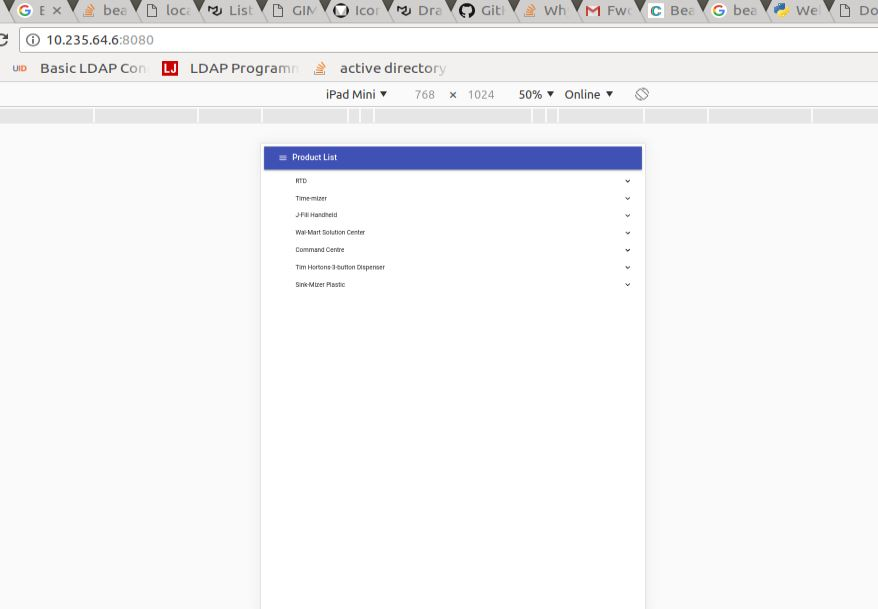
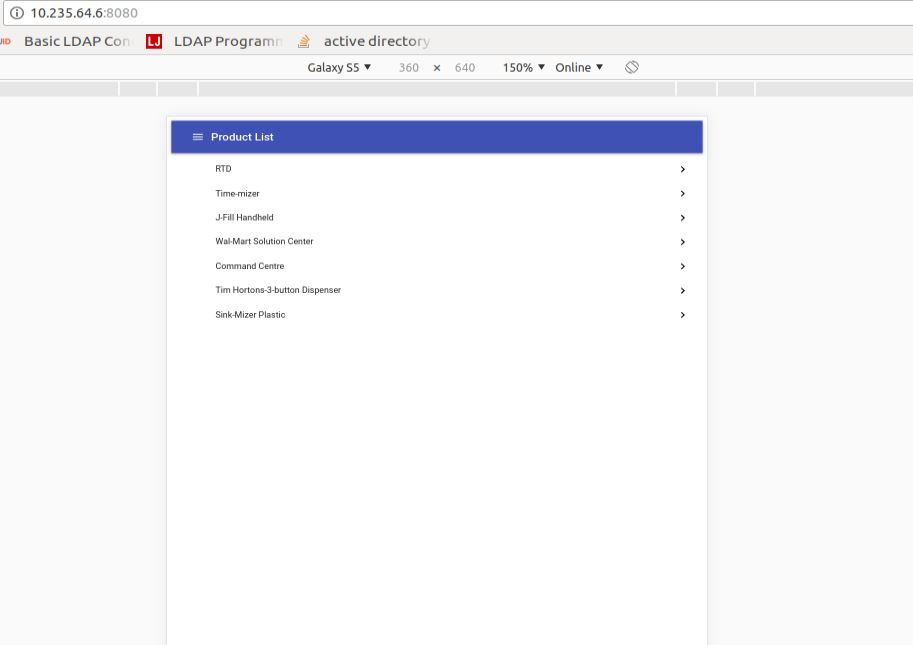
updated code

Changed region(s): [[0.0, 0.0, 1.0, 0.2808], [0.246, 0.2808, 0.4305, 0.4992]]

diff --git a/react_assignment/React_Assignment/client/components/processdashboard/ProcessDashboard.js b/react_assignment/React_Assignment/client/components/processdashboard/ProcessDashboard.js
@@ -8,46 +8,47 @@ import Collapse from '@material-ui/core/Collapse';
 import ExpandLess from '@material-ui/icons/ExpandLess';
 import ExpandMore from '@material-ui/icons/ExpandMore';
 import ChevronRightIcon from '@material-ui/icons/ChevronRight';
+import ChevronLeftIcon from '@material-ui/icons/ChevronLeft';
 import StarBorder from '@material-ui/icons/StarBorder';
 
-
 class ProcessDashboard extends React.Component{
-	constructor(props){
-		super(props);
-		this.state = {open:true};
-		this.state ={data:["RTD","Time-mizer","J-Fill Handheld","Wal-Mart Solution Center","Command Centre","Tim Hortons-3-button Dispenser","Sink-Mizer Plastic"]}
-	}	
-	
-	handleClick = ()=>{
-		this.setState(state => ({open:!state.open}));
-	}
-	render(){
-		console.log(this,"this");
-		var that = this
-		var menuList = this.state.data;
-		var index=0
-		return (	
-			<List component="nav">
-			 { menuList.map(function(menuitem){
-				index++;
-				return <div><ListItem button onClick={that.handleClick}>
+        constructor(props){
+                super(props);
+                this.state = {open:true};
+                this.state ={data:["RTD","Time-mizer","J-Fill Handheld","Wal-Mart Solution Center","Command Centre","Tim Hortons-3-button Dispenser","Sink-Mizer Plastic"]}
+        }
+
+        handleClick = ()=>{
+                this.setState(state => ({open:!state.open}));
+        }
+        render(){
+                console.log(this,"this");
+                var that = this
+                var menuList = this.state.data;
+                var index=0
+                return (
+                        <List component="nav">
+                         { menuList.map(function(menuitem){
+                                index++;
+                                return <div><ListItem button onClick={that.handleClick}>
                                                  <ListItemText key={index} inset primary={menuitem}/>
-							{that.state.open?<ExpandLess/> : <ExpandMore/>}
-                                            	</ListItem>
+                                                        {that.state.open? <ChevronLeftIcon/> : <ChevronRightIcon/>}
+                                                </ListItem>
                                                 <Collapse in={that.state.open} timeout="auto" unmountOnExit>
                                                         <List component="div" disablePadding>
                                                                 <ListItem button>
                                                                 </ListItem>
                                                         </List>
                                                 </Collapse>
-					</div>
+                                        </div>
 
-			})}
-			</List>
+                        })}
+                        </List>
 
-		)
-	
-	
-	}
+                )
+
+
+        }
 }
-export default ProcessDashboard 
+export default ProcessDashboard
+
